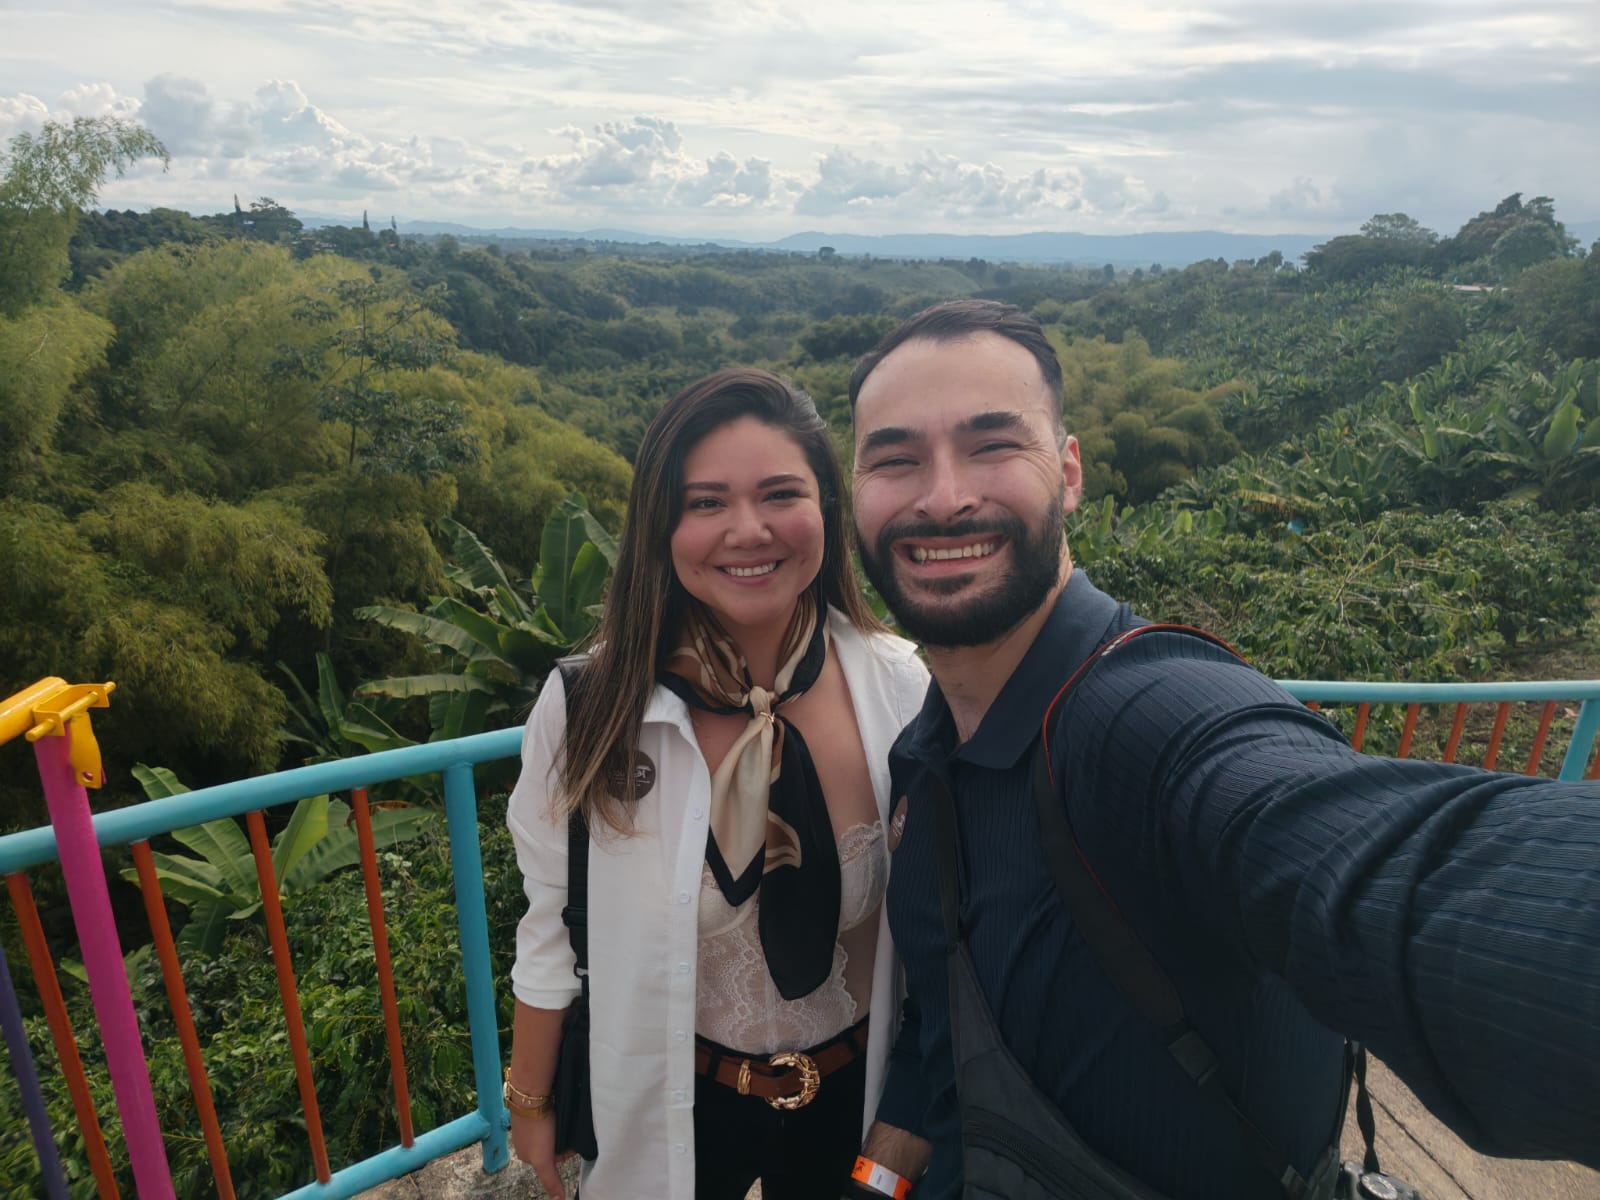
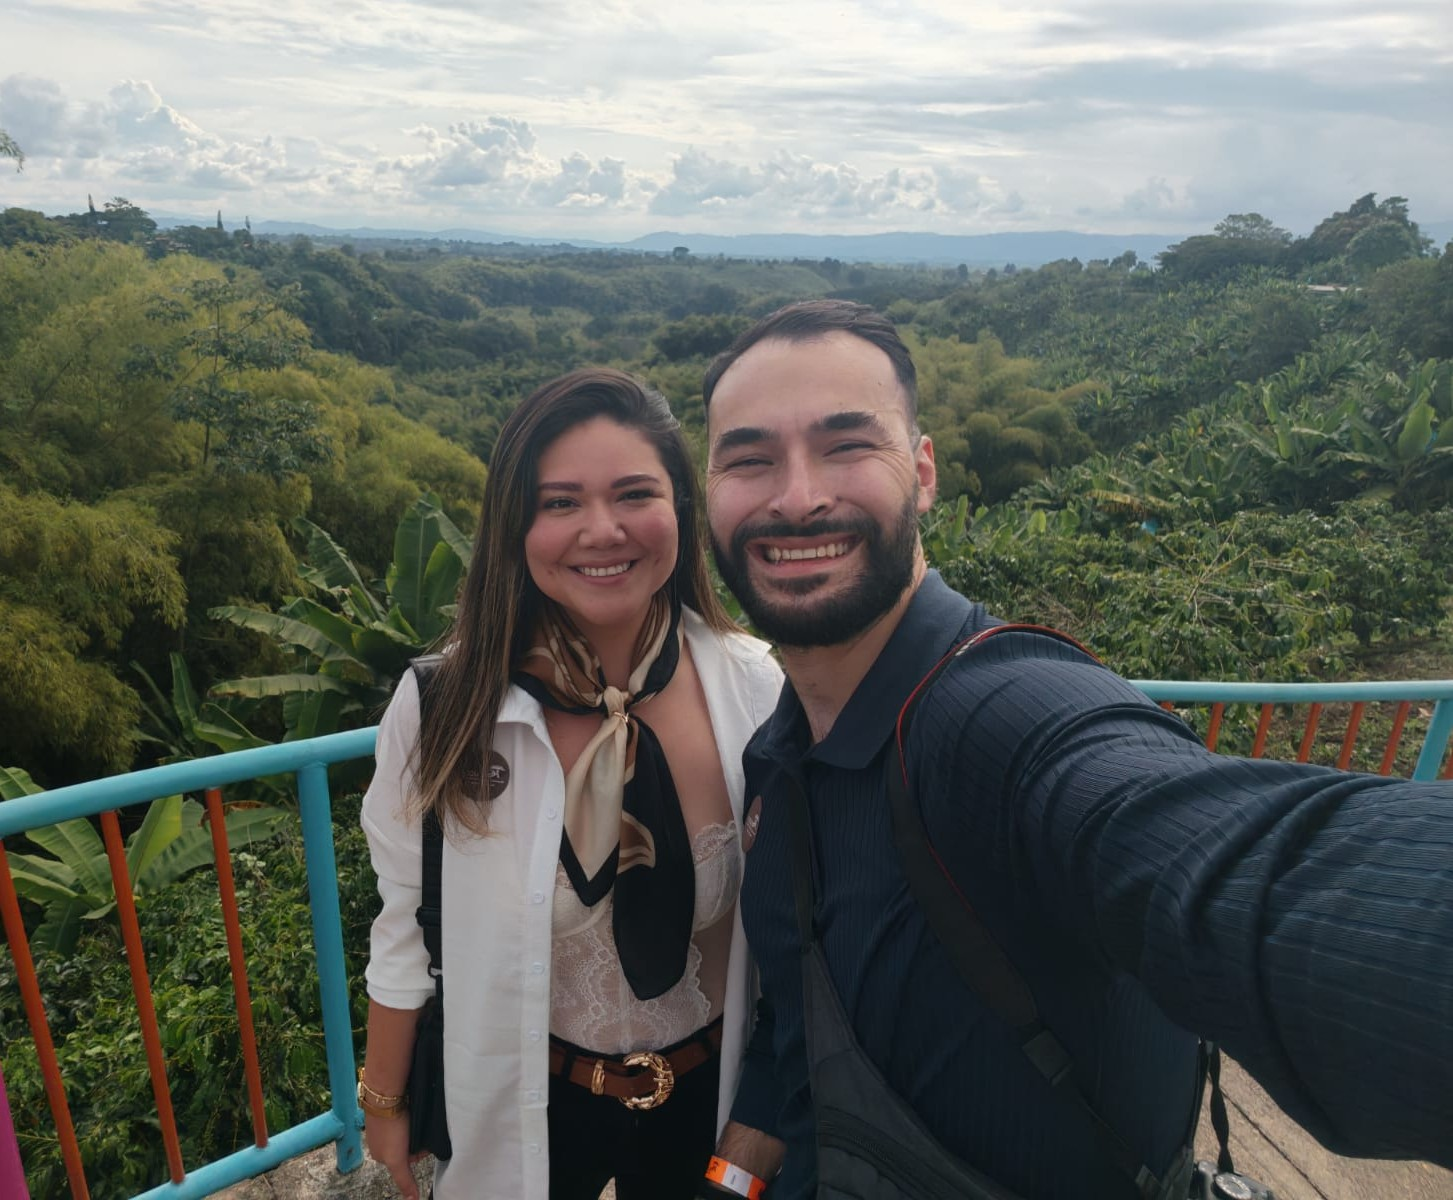
arreglo de fotografias

diff --git a/index.html b/index.html
@@ -224,11 +224,7 @@
           <div class="child-card">
 
             <div class="photo-placeholder">
-
-              <span>
-                Foto Javiera
-              </span>
-
+              <img src="Img/Javiera2.jpeg" alt="Foto Javiera"></img>
             </div>
 
             <h3>
@@ -248,11 +244,7 @@
           <div class="child-card">
 
             <div class="photo-placeholder">
-
-              <span>
-                Foto Daniel
-              </span>
-
+              <img src="Img/Daniel.jpeg" alt="Foto Daniel"></img>
             </div>
 
             <h3>
@@ -370,7 +362,7 @@
         <div class="date-photo date-photo-left">
 
           <img
-            src="Img/foto-javiera.jpg"
+            src="Img/Piojosos3.jpeg"
             alt="Javiera"
           >
 
@@ -382,7 +374,7 @@
         <div class="date-photo date-photo-right">
 
           <img
-            src="Img/foto-daniel.jpg"
+            src="Img/Piojosos1.jpeg"
             alt="Daniel"
           >
 

diff --git a/Style.css b/Style.css
@@ -1685,7 +1685,7 @@ section {
   justify-self: start;
 
   transform:
-    rotate(7deg);
+    rotate(-7deg);
 
   margin-top: 0;
 }
@@ -1699,7 +1699,7 @@ section {
   justify-self: end;
 
   transform:
-    rotate(-7deg);
+    rotate(7deg);
 
   margin-top: 0;
 }
